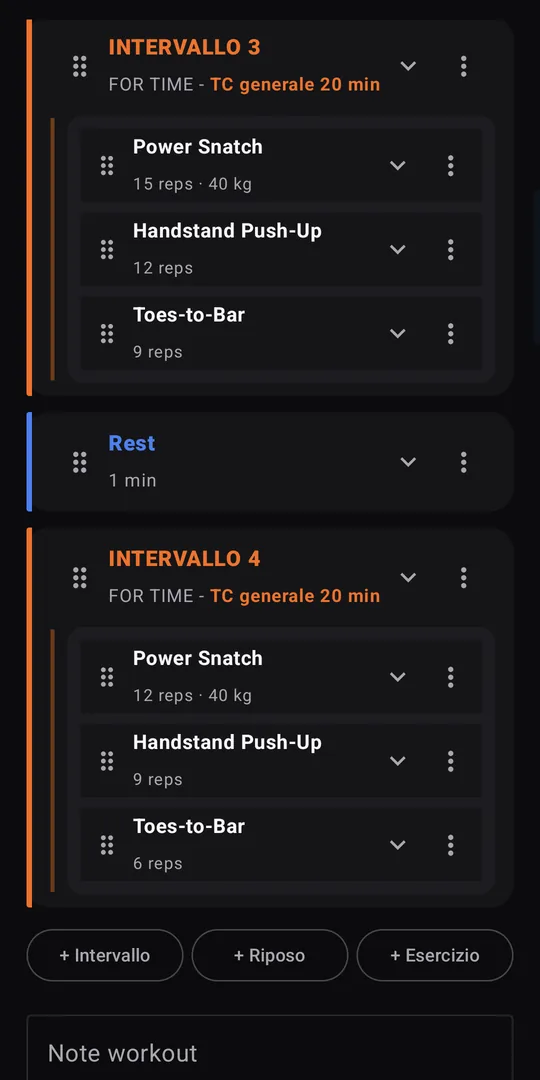
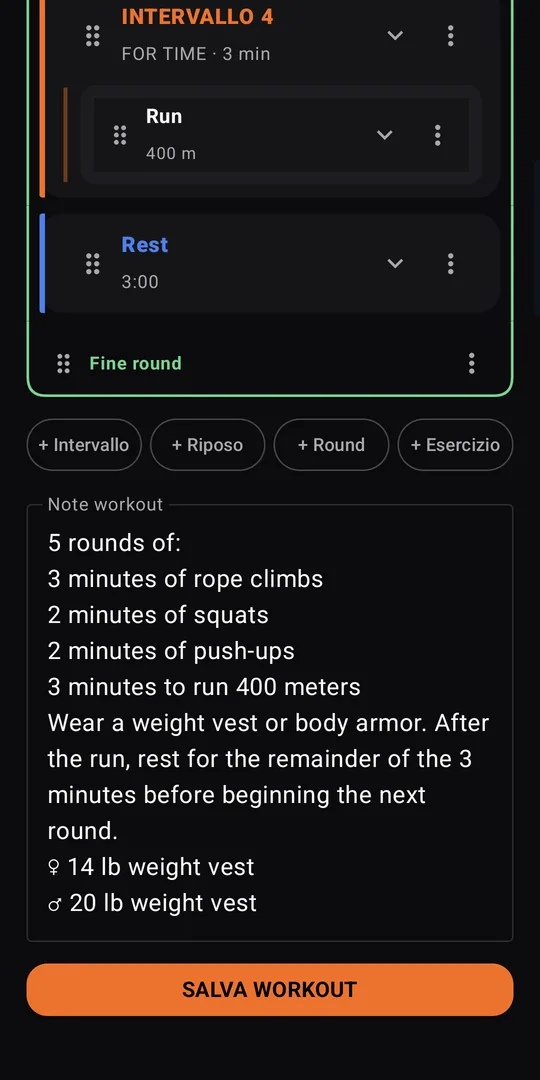
Guida 10.4.1: Round nell'editor e nello scanner, Generale Countdown per intervallo
Claude-Session: https://claude.ai/code/session_01ATQuctcbRzVoySukrmo66D

diff --git a/guida/index.html b/guida/index.html
@@ -184,7 +184,7 @@ const UI = {
     es: 'Temporizadores de cross training, WOD por intervalos, escaneo de la pizarra, benchmarks, máximos, análisis y un coach que lee tus datos. Sin cuenta: tus entrenamientos se quedan en tu teléfono.'
   },
   // the app version this guide describes: change it with every update of the guide
-  heroVersion: { it: 'Aggiornata per IRON WOD 10.4.0 · 10 ottobre 2026', en: 'Updated for IRON WOD 10.4.0 · 10 October 2026', es: 'Actualizada para IRON WOD 10.4.0 · 10 de octubre de 2026' },
+  heroVersion: { it: 'Aggiornata per IRON WOD 10.4.1 · 11 ottobre 2026', en: 'Updated for IRON WOD 10.4.1 · 11 October 2026', es: 'Actualizada para IRON WOD 10.4.1 · 11 de octubre de 2026' },
   ctaPlay: { it: 'Scarica su Google Play', en: 'Get it on Google Play', es: 'Descárgala en Google Play' },
   ctaStart: { it: 'Inizia a leggere ↓', en: 'Start reading ↓', es: 'Empieza a leer ↓' },
   fAbout: { it: 'Informazioni', en: 'About', es: 'Información' },
@@ -267,14 +267,16 @@ const SECTIONS = [
       en: 'The library holds your WODs and your box\'s. The editor builds any class: a WOD is a sequence of intervals, each with its own format and exercises.',
       es: 'La biblioteca contiene tus WOD y los de tu box. El editor construye cualquier clase: un WOD es una secuencia de intervalos, cada uno con su formato y sus ejercicios.'
     },
-    shots: [['wod-library', { it: 'Libreria Workout', en: 'Workout library', es: 'Biblioteca Workout' }], ['wod-detail', { it: 'Un WOD in due parti', en: 'A two-part WOD', es: 'Un WOD en dos partes' }], ['wod-editor', { it: 'Editor a intervalli', en: 'Interval editor', es: 'Editor por intervalos' }], ['race', { it: 'Race 8×8', en: 'Race 8×8', es: 'Race 8×8' }]],
+    shots: [['wod-library', { it: 'Libreria Workout', en: 'Workout library', es: 'Biblioteca Workout' }], ['wod-detail', { it: 'Un WOD in due parti', en: 'A two-part WOD', es: 'Un WOD en dos partes' }], ['wod-editor', { it: 'Editor a intervalli', en: 'Interval editor', es: 'Editor por intervalos' }], ['wod-round', { it: 'Un Round × 5 (Manuel)', en: 'A Round × 5 (Manuel)', es: 'Un Round × 5 (Manuel)' }], ['race', { it: 'Race 8×8', en: 'Race 8×8', es: 'Race 8×8' }]],
     items: [
       { t: { it: 'Intervalli', en: 'Intervals', es: 'Intervalos' },
         d: { it: 'Ogni intervallo è un For Time, AMRAP, EMOM o Countdown con i suoi esercizi (ripetizioni, calorie, metri, tempo, carico, note). Si aprono con un tocco, si riordinano trascinandoli e gli esercizi si spostano da un intervallo all\'altro.', en: 'Each interval is a For Time, AMRAP, EMOM or Countdown with its own exercises (reps, calories, meters, time, load, notes). Tap to open, drag to reorder, and drag exercises from one interval to another.', es: 'Cada intervalo es un For Time, AMRAP, EMOM o Countdown con sus ejercicios (repeticiones, calorías, metros, tiempo, carga, notas). Se abren con un toque, se reordenan arrastrando y los ejercicios se mueven de un intervalo a otro.' } },
       { t: { it: 'Tipo generale e time cap', en: 'General type and time cap', es: 'Tipo general y time cap' },
-        d: { it: 'In cima all\'editor scegli il formato generale del WOD: gli intervalli lasciati su "Generale" lo condividono, cap compreso. Ogni intervallo For Time mostra <b style="color:var(--orange)">TC generale</b> quando usa il cap comune o <b style="color:var(--red)">TC specifico</b> quando ha il suo. Il cap generale parte dal primo intervallo che lo segue: un EMOM di tecnica prima del metcon non lo consuma.', en: 'At the top of the editor pick the WOD\'s general format: intervals left on "General" share it, cap included. Each For Time interval shows <b style="color:var(--orange)">General TC</b> when it uses the shared cap or <b style="color:var(--red)">Own TC</b> when it has its own. The general cap starts with the first interval that follows it: a technique EMOM before the metcon doesn\'t use it up.', es: 'Arriba en el editor eliges el formato general del WOD: los intervalos que quedan en "General" lo comparten, cap incluido. Cada intervalo For Time muestra <b style="color:var(--orange)">TC general</b> cuando usa el cap común o <b style="color:var(--red)">TC específico</b> cuando tiene el suyo. El cap general empieza con el primer intervalo que lo sigue: un EMOM de técnica antes del metcon no lo consume.' } },
+        d: { it: 'In cima all\'editor scegli il formato generale del WOD: gli intervalli lasciati su "Generale" lo condividono, cap compreso. Ogni intervallo For Time mostra <b style="color:var(--orange)">TC generale</b> quando usa il cap comune o <b style="color:var(--red)">TC specifico</b> quando ha il suo. Il cap generale parte dal primo intervallo che lo segue: un EMOM di tecnica prima del metcon non lo consuma. Con <b>Countdown</b> generale i minuti sono il timer di ogni intervallo (3\' = ogni intervallo dura 3\'), salvo quando c\'è un AMRAP "nel tempo residuo": allora sono il tempo totale del WOD.', en: 'At the top of the editor pick the WOD\'s general format: intervals left on "General" share it, cap included. Each For Time interval shows <b style="color:var(--orange)">General TC</b> when it uses the shared cap or <b style="color:var(--red)">Own TC</b> when it has its own. The general cap starts with the first interval that follows it: a technique EMOM before the metcon doesn\'t use it up. With a general <b>Countdown</b> the minutes are each interval\'s own timer (3\' = every interval lasts 3\'), except when there\'s an AMRAP "in the remaining time": then they\'re the whole WOD\'s time.', es: 'Arriba en el editor eliges el formato general del WOD: los intervalos que quedan en "General" lo comparten, cap incluido. Cada intervalo For Time muestra <b style="color:var(--orange)">TC general</b> cuando usa el cap común o <b style="color:var(--red)">TC específico</b> cuando tiene el suyo. El cap general empieza con el primer intervalo que lo sigue: un EMOM de técnica antes del metcon no lo consume. Con <b>Countdown</b> general los minutos son el temporizador de cada intervalo (3\' = cada intervalo dura 3\'), salvo cuando hay un AMRAP "en el tiempo restante": entonces son el tiempo total del WOD.' } },
       { t: { it: 'Riposo', en: 'Rest', es: 'Descanso' },
         d: { it: '"+ Riposo" aggiunge una scheda blu di recupero tra due intervalli, che il timer esegue come un conto alla rovescia.', en: '"+ Rest" adds a blue rest card between two intervals, run by the timer as a countdown.', es: '"+ Descanso" añade una tarjeta azul de recuperación entre dos intervalos, que el temporizador ejecuta como una cuenta atrás.' } },
+      { t: { it: 'Round', en: 'Round', es: 'Round' },
+        d: { it: '"+ Round" ripete un gruppo di intervalli e Rest: tutto quello che sta nella <b style="color:var(--green)">cornice verde</b>, fino a «Fine round», si fa N volte (− × 2 +). Esempio: <i>2 rounds for total reps</i> di tre finestre da 3\' con 1\' di Rest tra l\'una e l\'altra si scrive una volta sola. "+ Round" racchiude gli intervalli creati dopo l\'ultimo Round; i blocchi aggiunti dopo finiscono dentro e prendono il formato dell\'intervallo precedente. Per portare un blocco fuori trascina «Fine round». Il timer esegue tutti i giri di fila, il dettaglio del WOD mostra il gruppo una volta con "ROUND × 2".', en: '"+ Round" repeats a group of intervals and Rests: everything inside the <b style="color:var(--green)">green frame</b>, down to "End of round", is done N times (− × 2 +). For example <i>2 rounds for total reps</i> of three 3\' windows with 1\' Rest between them is written once. "+ Round" wraps the intervals created after the last Round; blocks added afterwards go inside it and take the format of the interval before. To move a block out, drag "End of round". The timer runs every round in a row, the WOD detail shows the group once with "ROUND × 2".', es: '"+ Round" repite un grupo de intervalos y Rest: todo lo que está dentro del <b style="color:var(--green)">marco verde</b>, hasta «Fin del round», se hace N veces (− × 2 +). Por ejemplo <i>2 rounds for total reps</i> de tres ventanas de 3\' con 1\' de Rest entre ellas se escribe una sola vez. "+ Round" envuelve los intervalos creados después del último Round; los bloques añadidos después van dentro y toman el formato del intervalo anterior. Para sacar un bloque, arrastra «Fin del round». El temporizador hace todas las rondas seguidas, el detalle del WOD muestra el grupo una vez con "ROUND × 2".' } },
       { t: { it: 'Parti: attendi il tocco per iniziare', en: 'Parts: wait for a tap to start', es: 'Partes: esperar un toque para empezar' },
         d: { it: 'Una lezione con forza o skill e poi il metcon si divide in parti: l\'intervallo con "Attendi il tocco per iniziare" apre la PARTE 2, il timer si ferma e riparte quando tocchi. L\'attesa non conta nel tempo del WOD e ogni parte ha il suo tempo nella sessione. In ogni parte gli intervalli ripartono da 1; il timer mostra PARTE 1/2, il pulsante INIZIA PARTE 2 e, se la parte ha un solo intervallo, SALTA PARTE.', en: 'A class with strength or skill and then the metcon splits into parts: the interval with "Wait for tap to start" opens PART 2, the timer stops and restarts when you tap. The wait doesn\'t count as WOD time and each part gets its own time in the session. Intervals are numbered from 1 again in every part; the timer shows PART 1/2, the START PART 2 button and, when the part has a single interval, SKIP PART.', es: 'Una clase con fuerza o skill y luego el metcon se divide en partes: el intervalo con "Esperar un toque para empezar" abre la PARTE 2, el temporizador se detiene y vuelve a arrancar cuando tocas. La espera no cuenta en el tiempo del WOD y cada parte tiene su tiempo en la sesión. En cada parte los intervalos vuelven a numerarse desde 1; el temporizador muestra PARTE 1/2, el botón EMPEZAR PARTE 2 y, si la parte tiene un solo intervalo, SALTAR PARTE.' } },
       { t: { it: 'EMOM a rotazione e AMRAP nel tempo residuo', en: 'Rotating EMOM and AMRAP in the remaining time', es: 'EMOM rotativo y AMRAP en el tiempo restante' },
@@ -297,7 +299,7 @@ const SECTIONS = [
       en: 'A real example: <b>EMOM 10\' of Hover Squat Snatch</b>, then <b>For Time 21-15-9 / 15-12-9 / 12-9-6</b> of Power Snatch, HSPU and Toes-to-Bar with <b>1\' rest</b> between ladders and a <b>20\' time cap</b> on the For Time part.',
       es: 'Un ejemplo real: <b>EMOM 10\' de Hover Squat Snatch</b>, luego <b>For Time 21-15-9 / 15-12-9 / 12-9-6</b> de Power Snatch, HSPU y Toes-to-Bar con <b>1\' de descanso</b> entre escaleras y <b>time cap de 20\'</b> en la parte For Time.'
     },
-    shots: [['wod-editor-add', { it: '+ Intervallo, + Riposo, + Esercizio', en: '+ Interval, + Rest, + Exercise', es: '+ Intervalo, + Descanso, + Ejercicio' }], ['wod-interval-settings', { it: 'Impostazioni di un intervallo', en: 'Interval settings', es: 'Ajustes de un intervalo' }]],
+    shots: [['wod-editor-add', { it: '+ Intervallo, + Riposo, + Round, + Esercizio', en: '+ Interval, + Rest, + Round, + Exercise', es: '+ Intervalo, + Descanso, + Round, + Ejercicio' }], ['wod-interval-settings', { it: 'Impostazioni di un intervallo', en: 'Interval settings', es: 'Ajustes de un intervalo' }]],
     steps: {
       it: [
         '<b>Apri l\'editor.</b> Workout → <b>CREA NUOVO WOD</b>. Dai un nome e, se vuoi, un tag (HERO, GIRL, ENGINE…).',
@@ -380,9 +382,9 @@ const SECTIONS = [
     items: [
       { t: { it: 'Cosa riconosce', en: 'What it reads', es: 'Qué reconoce' },
         list: {
-          it: ['Formati: For Time, AMRAP, EMOM ed E2MOM, "Every 2 min x 5", Tabata, round, time cap, lavoro/recupero.', 'Scale di ripetizioni: "21-15-9" alla Fran, oppure più scale di fila ("21-15-9 / 15-12-9 / 12-9-6") con un numero per esercizio.', 'REST tra le parti, che diventano schede blu di recupero; un REST in fondo a un blocco a round ("13 rounds … REST 1\'") diventa invece il recupero di ogni round.', 'Alternative con OR ("5/3 cal erg OR 100m run", o due parti intere in alternativa): dopo la scansione l\'app ti chiede quale fai.', 'Intervalli di ripetizioni come "8-10": si parte dal minimo e l\'intervallo resta nelle note, come "Speed" o "Heavy" scritti accanto all\'esercizio.', 'Parti separate (A/B, Strength, Metcon, forza prima del WOD), con l\'attesa del tocco solo quando serve.', 'Abbreviazioni da lavagna: TTB, HSPU, C2B, DU, KBS, WB, P.Snatch, H.S.Clean…', 'Carichi "@50/35" e calorie "50/40 cal": il valore giusto per te in base al sesso del profilo e alle unità scelte.'],
-          en: ['Formats: For Time, AMRAP, EMOM and E2MOM, "Every 2 min x 5", Tabata, rounds, time cap, work/rest.', 'Rep schemes: Fran-style "21-15-9", or several in a row ("21-15-9 / 15-12-9 / 12-9-6") with one number per exercise.', 'REST between parts, turned into blue rest cards; a REST at the end of a rounds block ("13 rounds … REST 1\'") becomes the rest of every round instead.', 'Alternatives with OR ("5/3 cal erg OR 100m run", or two whole parts): after scanning the app asks which one you do.', 'Rep ranges like "8-10": you start from the lower number and the range stays in the notes, like "Speed" or "Heavy" written next to the exercise.', 'Separate parts (A/B, Strength, Metcon, lifting before the WOD), waiting for a tap only when needed.', 'Board shorthand: TTB, HSPU, C2B, DU, KBS, WB, P.Snatch, H.S.Clean…', 'Loads "@50/35" and calories "50/40 cal": the right value for you from your profile and units.'],
-          es: ['Formatos: For Time, AMRAP, EMOM y E2MOM, "Every 2 min x 5", Tabata, rondas, time cap, trabajo/descanso.', 'Escaleras de repeticiones: "21-15-9" tipo Fran, o varias seguidas ("21-15-9 / 15-12-9 / 12-9-6") con un número por ejercicio.', 'REST entre partes, que se convierten en tarjetas azules de descanso; un REST al final de un bloque por rondas ("13 rounds … REST 1\'") pasa a ser el descanso de cada ronda.', 'Alternativas con OR ("5/3 cal erg OR 100m run", o dos partes enteras): tras escanear la app te pregunta cuál haces.', 'Rangos de repeticiones como "8-10": se empieza por el mínimo y el rango queda en las notas, como "Speed" o "Heavy" escritos junto al ejercicio.', 'Partes separadas (A/B, Strength, Metcon, fuerza antes del WOD), esperando un toque solo cuando hace falta.', 'Abreviaturas de pizarra: TTB, HSPU, C2B, DU, KBS, WB, P.Snatch, H.S.Clean…', 'Cargas "@50/35" y calorías "50/40 cal": el valor adecuado para ti según tu perfil y tus unidades.']
+          it: ['Formati: For Time, AMRAP, EMOM ed E2MOM, "Every 2 min x 5", Tabata, round, time cap, lavoro/recupero.', 'Scale di ripetizioni: "21-15-9" alla Fran, oppure più scale di fila ("21-15-9 / 15-12-9 / 12-9-6") con un numero per esercizio.', 'REST tra le parti, che diventano schede blu di recupero; un REST in fondo a un blocco a round ("13 rounds … REST 1\'") diventa invece il recupero di ogni round.', '"2 ROUNDS" sopra finestre a tempo ("3\' … REST 1\' … 3\' …") diventa un <b>Round</b> × 2 con gli intervalli Countdown e i Rest dentro.', 'Alternative con OR ("5/3 cal erg OR 100m run", o due parti intere in alternativa): dopo la scansione l\'app ti chiede quale fai.', 'Intervalli di ripetizioni come "8-10": si parte dal minimo e l\'intervallo resta nelle note, come "Speed" o "Heavy" scritti accanto all\'esercizio.', 'Parti separate (A/B, Strength, Metcon, forza prima del WOD), con l\'attesa del tocco solo quando serve.', 'Abbreviazioni da lavagna: TTB, HSPU, C2B, DU, KBS, WB, P.Snatch, H.S.Clean…', 'Carichi "@50/35" e calorie "50/40 cal": il valore giusto per te in base al sesso del profilo e alle unità scelte.'],
+          en: ['Formats: For Time, AMRAP, EMOM and E2MOM, "Every 2 min x 5", Tabata, rounds, time cap, work/rest.', 'Rep schemes: Fran-style "21-15-9", or several in a row ("21-15-9 / 15-12-9 / 12-9-6") with one number per exercise.', 'REST between parts, turned into blue rest cards; a REST at the end of a rounds block ("13 rounds … REST 1\'") becomes the rest of every round instead.', '"2 ROUNDS" over timed windows ("3\' … REST 1\' … 3\' …") becomes a <b>Round</b> × 2 with the Countdown intervals and Rests inside.', 'Alternatives with OR ("5/3 cal erg OR 100m run", or two whole parts): after scanning the app asks which one you do.', 'Rep ranges like "8-10": you start from the lower number and the range stays in the notes, like "Speed" or "Heavy" written next to the exercise.', 'Separate parts (A/B, Strength, Metcon, lifting before the WOD), waiting for a tap only when needed.', 'Board shorthand: TTB, HSPU, C2B, DU, KBS, WB, P.Snatch, H.S.Clean…', 'Loads "@50/35" and calories "50/40 cal": the right value for you from your profile and units.'],
+          es: ['Formatos: For Time, AMRAP, EMOM y E2MOM, "Every 2 min x 5", Tabata, rondas, time cap, trabajo/descanso.', 'Escaleras de repeticiones: "21-15-9" tipo Fran, o varias seguidas ("21-15-9 / 15-12-9 / 12-9-6") con un número por ejercicio.', 'REST entre partes, que se convierten en tarjetas azules de descanso; un REST al final de un bloque por rondas ("13 rounds … REST 1\'") pasa a ser el descanso de cada ronda.', '"2 ROUNDS" sobre ventanas de tiempo ("3\' … REST 1\' … 3\' …") se convierte en un <b>Round</b> × 2 con los intervalos Countdown y los Rest dentro.', 'Alternativas con OR ("5/3 cal erg OR 100m run", o dos partes enteras): tras escanear la app te pregunta cuál haces.', 'Rangos de repeticiones como "8-10": se empieza por el mínimo y el rango queda en las notas, como "Speed" o "Heavy" escritos junto al ejercicio.', 'Partes separadas (A/B, Strength, Metcon, fuerza antes del WOD), esperando un toque solo cuando hace falta.', 'Abreviaturas de pizarra: TTB, HSPU, C2B, DU, KBS, WB, P.Snatch, H.S.Clean…', 'Cargas "@50/35" y calorías "50/40 cal": el valor adecuado para ti según tu perfil y tus unidades.']
         } }
     ],
     tip: {
